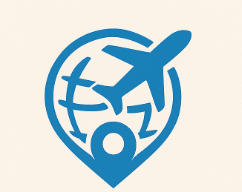
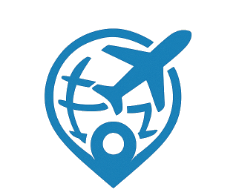
Fit hero content and apply white branding background

diff --git a/src/pages/HomePage.css b/src/pages/HomePage.css
@@ -558,3 +558,32 @@
  .home-page .hero-search-wrap .search-bar { grid-template-columns: minmax(0, 1fr); }
  .home-page .hero-search-wrap .btn-search { grid-column: auto; }
 }
+
+/* Keep the complete search panel comfortably inside the hero image */
+.home-page .hero-section { min-height: 0; gap: 22px; margin-bottom: 56px; padding-top: clamp(34px, 4.5vw, 62px); padding-bottom: clamp(28px, 3.5vw, 44px); background-position: center 50%; }
+.home-page .hero-content { width: min(100%, 1180px); }
+.home-page .hero-content h2 { max-width: 940px; font-size: clamp(2.45rem, 4.3vw, 4.25rem); line-height: 1.08; }
+.home-page .hero-content p { max-width: 560px; margin-top: 14px; font-size: clamp(.96rem, 1.5vw, 1.08rem); line-height: 1.6; }
+.home-page .hero-actions { gap: 10px; margin-top: 19px; }
+.home-page .hero-primary-link, .home-page .hero-secondary-link { min-height: 44px; padding: 0 17px; font-size: .9rem; }
+.home-page .hero-trust { gap: 7px 14px; margin-top: 16px; font-size: .76rem; }
+.home-page .hero-search-wrap { padding: 14px 18px 10px; margin: 0 auto; border-radius: 16px; }
+.home-page .hero-search-heading { padding: 0 5px; }
+.home-page .hero-search-wrap .search-bar { gap: 10px; margin-top: 6px; padding: 8px 5px 3px; }
+.home-page .hero-search-wrap .search-input label { margin-bottom: 5px; font-size: .76rem; }
+.home-page .hero-search-wrap .search-input input, .home-page .hero-search-wrap .search-input select { min-height: 42px; padding: 9px 10px; font-size: .86rem; }
+.home-page .hero-search-wrap .btn-search { min-height: 40px; padding: 9px 16px; font-size: .94rem; }
+@media (max-width: 900px) {
+ .home-page .hero-section { gap: 20px; margin-bottom: 46px; padding: 40px 22px 28px; }
+ .home-page .hero-content h2 { max-width: 760px; font-size: clamp(2.35rem, 6.2vw, 3.8rem); }
+ .home-page .hero-search-wrap { width: min(100%, 760px); }
+}
+@media (max-width: 600px) {
+ .home-page .hero-section { gap: 17px; margin-bottom: 42px; padding: 32px 14px 22px; }
+ .home-page .hero-content h2 { font-size: clamp(2.15rem, 9vw, 3.1rem); }
+ .home-page .hero-content p { margin-top: 11px; font-size: .94rem; }
+ .home-page .hero-trust { gap: 7px 10px; font-size: .7rem; }
+ .home-page .hero-search-wrap { padding: 13px 11px 8px; }
+ .home-page .hero-search-wrap .search-bar { gap: 8px; padding: 8px 1px 2px; }
+ .home-page .hero-search-wrap .search-input input, .home-page .hero-search-wrap .search-input select { min-height: 40px; }
+}

diff --git a/public/index.html b/public/index.html
@@ -5,7 +5,7 @@
     <link rel="icon" type="image/png" href="%PUBLIC_URL%/favion.png" />
     <link rel="apple-touch-icon" href="%PUBLIC_URL%/favion.png" />
     <meta name="viewport" content="width=device-width, initial-scale=1" />
-    <meta name="theme-color" content="#082f49" />
+    <meta name="theme-color" content="#ffffff" />
     <meta name="description" content="TravelHub réunit hôtels, taxis et voyages organisés pour préparer facilement votre prochain séjour." />
     <link rel="manifest" href="%PUBLIC_URL%/manifest.json" />
     <title>TravelHub — Votre prochain voyage commence ici</title>

diff --git a/src/components/common/Header.css b/src/components/common/Header.css
@@ -53,3 +53,5 @@
  .user-details { display: none; }
 }
 @media (prefers-reduced-motion: reduce) { .header *, .header *::before, .header *::after { transition-duration: .01ms !important; } }
+/* White logo tile for consistent contrast against the navigation */
+.brand-logo { padding: 4px; background-color: #fff; object-fit: contain; }

diff --git a/src/responsive.css b/src/responsive.css
@@ -106,3 +106,5 @@ button { touch-action: manipulation; }
 @media (prefers-reduced-motion: reduce) {
   *, *::before, *::after { scroll-behavior: auto !important; animation-duration: .01ms !important; animation-iteration-count: 1 !important; transition-duration: .01ms !important; }
 }
+
+html, body { background-color: #fff; }
